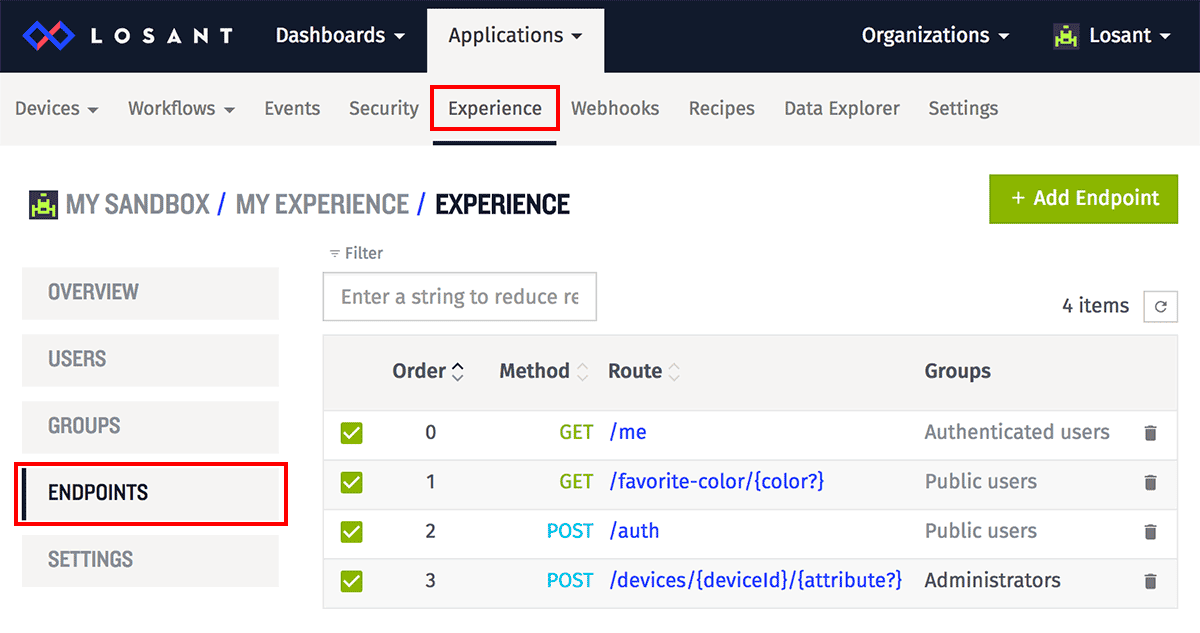
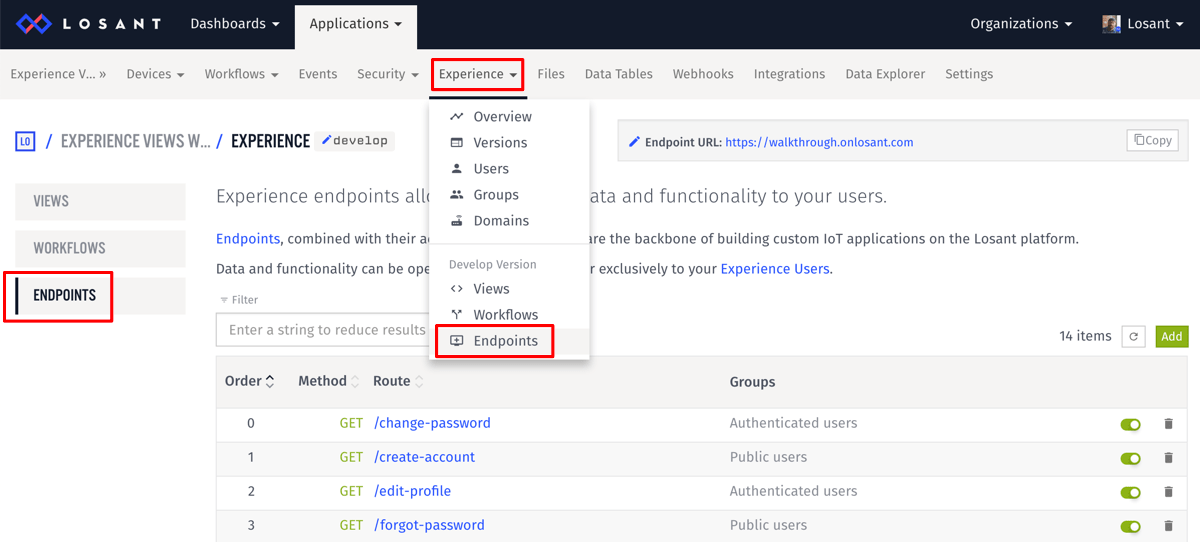
update endpoint screenshots

diff --git a/docs/experiences/endpoints.md b/docs/experiences/endpoints.md
@@ -1,18 +1,18 @@
 # Experience Endpoints
 
-An Experience Endpoint is a combination of an HTTP method and a route that, when invoked by an HTTP request, can fire a [workflow](/workflows/overview/). That workflow should then generate and issue a response to the request.
+An Experience Endpoint is a combination of an HTTP method and a route that, when invoked by an HTTP request, can fire a [workflow](/workflows/overview/) or directly respond with an [Experience Page](/experiences/views/). Fired workflows can also generate and issue a response to the request.
 
 ## Viewing Experience Endpoints
 
 ![Experience Endpoints](/images/experiences/endpoints-list.png "Experience Endpoints")
 
-Endpoints are listed within the "Endpoints" tab of your application's "Experience" subsection. There is also a list of endpoints on the Experience overview page, sorted by most times invoked in the last 24 hours.
+Endpoints are listed within the "Endpoints" tab of your application's "Experience" subsection.
 
 Click an endpoint's route in the list to view its configuration, make edits or view workflows associated with the endpoint.
 
 ## Adding an Experience Endpoint
 
-From the Endpoints list page, click "Add Endpoint" in the top right corner. This will take you to a page where the new endpoint can be configured.
+From the Endpoints list page, click "Add" in the upper right of the endpoint list. This will take you to a page where the new endpoint can be configured.
 
 ![Add Endpoint](/images/experiences/add-endpoint.png "Add Endpoint")
 
@@ -82,7 +82,8 @@ The following is an example of the context data that you can access in your redi
     user, // object containing info on the user who made the request (if available)
     endpoint, // object containing info on the endpoint config
     page, // object containing info on the page config
-    layout // object containing info on the layout config
+    layout, // object containing info on the layout config,
+    version // the experience version for this request
   },
   globals, // key/value mapping of any global variables from the application
   request: {
@@ -105,11 +106,11 @@ There are a couple additional properties to set on each endpoint:
 
 ## Endpoints and Workflows
 
-Every endpoint is powered by a [Losant workflow](/workflows/overview/) built by you. The workflow is initiated by an [Endpoint Trigger node](/workflows/triggers/endpoint/) configured to match your endpoint's method and route. From there, you can use any nodes within the workflow editor to parse your user's request, issue a response using an [Endpoint Reply node](/workflows/outputs/endpoint-reply/), and take auxiliary actions (such as [sending data](/workflows/data/http/) to a third party or issuing alerts via [email](/workflows/outputs/email/) or [SMS](/workflows/outputs/sms/)).
+Every endpoint can be powered by a [Losant Experience Workflow](/workflows/overview/) built by you. The workflow is initiated by an [Endpoint Trigger node](/workflows/triggers/endpoint/) configured to match your endpoint's method and route. From there, you can use any nodes within the workflow editor to parse your user's request, issue a response using an [Endpoint Reply node](/workflows/outputs/endpoint-reply/), and take auxiliary actions (such as [sending data](/workflows/data/http/) to a third party or issuing alerts via [email](/workflows/outputs/email/) or [SMS](/workflows/outputs/sms/)).
 
 ![Endpoint Workflow List](/images/experiences/endpoint-workflow-list.png "Endpoint Workflow List")
 
-At the bottom of an endpoint's edit page is a list of all workflows that contain an Endpoint Trigger Node that matches that endpoint's method and route. If no such workflows exist, you have the option of creating a starter workflow, which will contain an [Endpoint Trigger node](/workflows/triggers/endpoint/), an [Endpoint Reply node](/workflows/outputs/endpoint-reply/) and a [Debug node](/workflows/outputs/debug/). This serves as a getting started template for configuring your new endpoint; you simply have to fill in the logic between the trigger and the reply.
+At the bottom of an endpoint's edit page is a list of all experience workflows that contain an Endpoint Trigger Node that matches that endpoint's method and route. If no such workflows exist, you have the option of creating a starter experience workflow, which will contain an [Endpoint Trigger node](/workflows/triggers/endpoint/), an [Endpoint Reply node](/workflows/outputs/endpoint-reply/) and a [Debug node](/workflows/outputs/debug/). This serves as a getting started template for configuring your new endpoint; you simply have to fill in the logic between the trigger and the reply.
 
 ### Experience User Nodes
 
@@ -151,4 +152,4 @@ An endpoint can be deleted by clicking the "Delete" icon next to any endpoint on
 
 ![Delete Endpoint](/images/experiences/delete-endpoint.png "Delete Endpoint")
 
-When deleting an endpoint, you also have the option of deleting any [workflows](/workflows/overview/) triggered by that endpoint. Note that this action deletes **any workflow with an [Endpoint Trigger node](/workflows/triggers/endpoint/) matching this endpoint**. If you wish to save your workflows and change out their triggers, or if the workflows are triggered by multiple conditions and you wish to retain them, you should leave this option unchecked.
+When deleting an endpoint, you also have the option of deleting any [experience workflows](/workflows/overview/) triggered by that endpoint. Note that this action deletes **any experience workflow with an [Endpoint Trigger node](/workflows/triggers/endpoint/) matching this endpoint**. If you wish to save your workflows and change out their triggers, or if the workflows are triggered by multiple conditions and you wish to retain them, you should leave this option unchecked.
